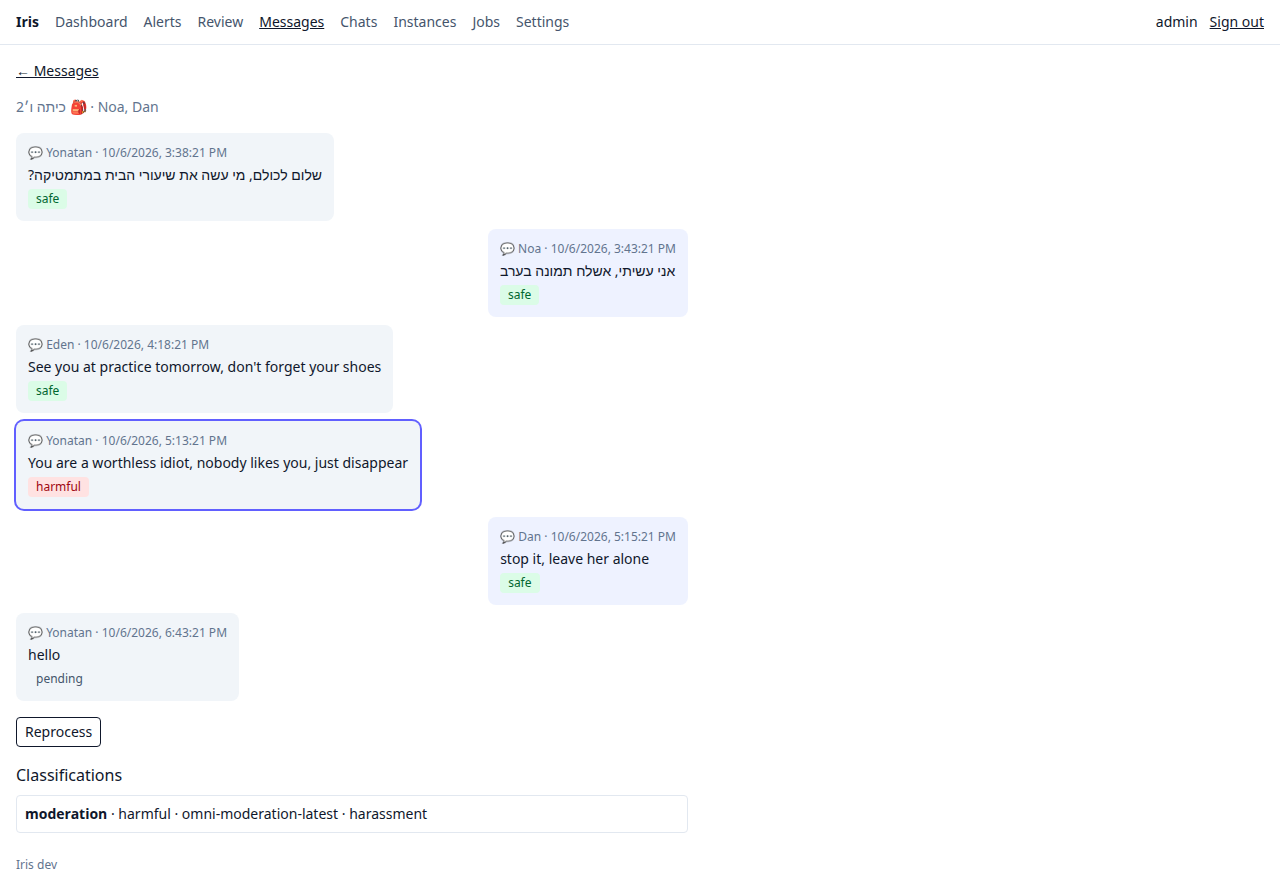
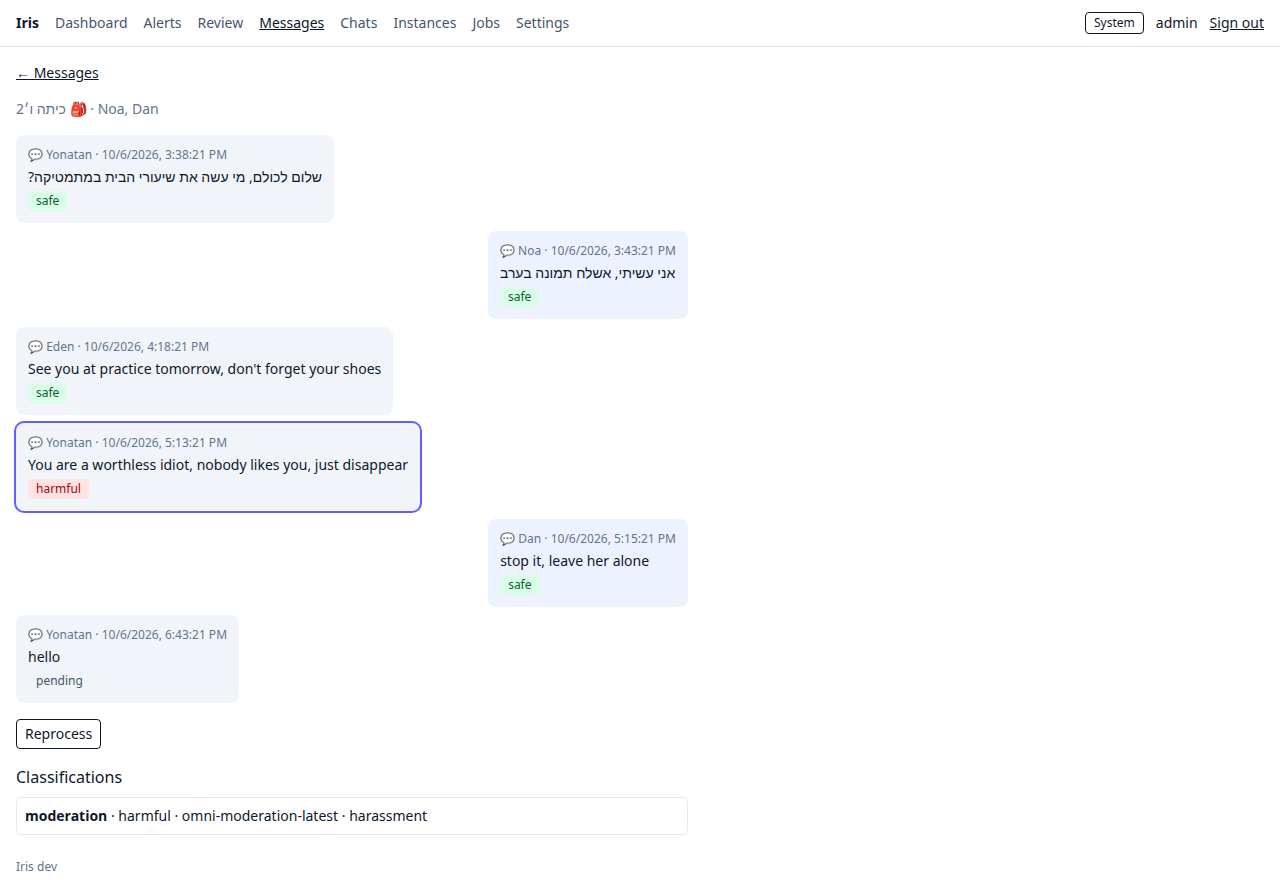
docs: fix README per code audit and refresh screenshots (working dark mode, theme button)

diff --git a/README.md b/README.md
@@ -115,6 +115,8 @@ docker compose up -d
 Open the portal on port 8080 and sign in with the admin credentials. They are used only to create the first
 account; change the password under **Settings → Account**.
 
+![Login](assets/screenshots/login.png)
+
 > **Back up `IRIS_SECRET_KEY`.** It encrypts every stored secret (API keys). Lose it and you must re-enter them.
 
 The container runs as a non-root user (uid 10001), applies database migrations on start, and has a health
@@ -144,6 +146,8 @@ IRIS_ADMIN_USERNAME=admin IRIS_ADMIN_PASSWORD=change-me IRIS_DATA_DIR=./data \
 4. Under **Settings → Alerts** choose the instance that **sends** alerts, enter the parent's number
    (international format, digits only, e.g. `972501234567`) and press **Test**. A real WhatsApp message is
    sent using the values you typed, before you save.
+
+![Settings: alerts](assets/screenshots/settings-alerts.png)
 
 ![Instances](assets/screenshots/instances.png)
 
@@ -190,6 +194,8 @@ UI only ever say whether one is set.
 
 Switching the transcription provider takes effect immediately, with no restart.
 
+![Settings: providers](assets/screenshots/settings-providers.png)
+
 ![Settings: classification](assets/screenshots/settings-classification.png)
 
 **Thresholds.** For each moderation category a score at or above **high** is harmful; between **low** and
@@ -224,7 +230,7 @@ Time: 06/10 17:14
 Open: https://iris.example.com/alerts/12?s=…
 ```
 
-Voice-note quotes are prefixed with 🎤 and image captions with 🖼. The signed link at the end lets Iris
+Voice-note quotes are prefixed with 🎤 and image, sticker and video captions with 🖼. The signed link at the end lets Iris
 recognise its own alerts if they come back through a monitored number, and it cannot be copied onto
 different text.
 
@@ -256,34 +262,40 @@ and its reason in the message list (it is never silently shown as pending).
 
 ### Dark mode
 
-The portal follows your system's light or dark preference.
+The portal follows your system's light or dark preference. The button in the top bar cycles between
+**System**, **Light** and **Dark** and remembers your choice in the browser.
 
 ![Dashboard in dark mode](assets/screenshots/dashboard-dark.png)
+
+![Alerts in dark mode](assets/screenshots/alerts-dark.png)
 
 ## API
 
 All endpoints are under `/api`, return JSON, and need the session cookie from `POST /api/auth/login`,
-except `/api/auth/login`, `/api/health` and `/api/version`. Interactive OpenAPI docs are at **`/api/docs`**
-(sign in first).
+except `/api/auth/login`, `/api/health` and `/api/version`. Interactive OpenAPI docs are at **`/api/docs`** and the schema at
+`/api/openapi.json`, both behind the login.
 
 | Method | Path | Purpose |
 |---|---|---|
 | POST | `/api/auth/login`, `/api/auth/logout`, `/api/auth/password` | Session login (HttpOnly, SameSite=Strict, 7 days; 5 failures per 15 minutes per IP), logout, change password |
+| GET | `/api/auth/me` | The signed-in user (401 when not signed in) |
 | GET | `/api/health`, `/api/version` | Liveness (database and workers), version |
 | GET | `/api/stats` | Dashboard numbers |
 | GET | `/api/messages` | Search: `q`, `instance_id`, `chat_id`, `sender`, `type`, `verdict`, `from`, `to`, `page`, `page_size` (max 100) |
 | GET | `/api/messages/{id}`, `/api/messages/{id}/context` | One message with classifications; surrounding messages |
 | POST | `/api/messages/{id}/reprocess` | Re-queue classification (not for redacted messages) |
-| GET | `/api/alerts`, `/api/alerts/{id}` | List with filters (`status`, `instance_id`, `chat_id`, `category`, dates); detail |
+| GET | `/api/alerts`, `/api/alerts/{id}` | List with filters (`status`, `delivery_status`, `instance_id`, `chat_id`, `category`, `from`, `to`, `page`, `page_size`); detail |
 | PATCH | `/api/alerts/{id}` | Set status to `new`, `acknowledged` or `dismissed` |
 | POST | `/api/alerts/{id}/resend` | Send the alert again (ignores the cooldown) |
 | GET, POST | `/api/review`, `/api/review/{message_id}` | Review queue; resolve as `safe` or `harmful` |
 | GET | `/api/chats` | Known chats with kids and counts |
 | GET/POST/PATCH/DELETE | `/api/instances[/{id}]` | Manage monitored numbers (API keys are never returned) |
 | POST | `/api/instances/{id}/rotate-token`, `/register-webhook` | Rotate the webhook token; register it in OpenWA |
-| GET, PUT | `/api/settings`, `/api/settings/thresholds` | Read and write settings; effective thresholds |
+| GET, PUT | `/api/settings` | Read and write settings (thresholds are the key `classification.thresholds`) |
+| GET | `/api/settings/thresholds` | Effective per-category thresholds next to their defaults (read-only) |
 | POST | `/api/settings/test/{openai\|cloudflare\|alert}` | Test a provider with the values entered |
-| GET | `/api/jobs` | Failed and dead jobs; `POST /api/jobs/{id}/retry` |
+| GET | `/api/jobs` | Failed and dead jobs with their errors |
+| POST | `/api/jobs/{id}/retry` | Retry a failed or dead job |
 | POST | `/webhooks/{token}` | OpenWA delivers here (authenticated by the token, and by an HMAC signature once Iris registered the webhook) |
 
 ## Metrics
@@ -295,7 +307,8 @@ except `/api/auth/login`, `/api/health` and `/api/version`. Interactive OpenAPI 
 | `iris_webhooks_total` | `instance`, `result` (accepted, duplicate, skipped, rejected) |
 | `iris_messages_processed_total` | `type`, `verdict` |
 | `iris_stage_duration_seconds` | `stage` |
-| `iris_provider_requests_total`, `iris_provider_duration_seconds` | `provider`, `endpoint`, `status` |
+| `iris_provider_requests_total` | `provider`, `endpoint`, `status` |
+| `iris_provider_duration_seconds` | `provider`, `endpoint` |
 | `iris_transcription_seconds_audio_total` | `provider` |
 | `iris_alerts_total` | `category`, `delivery_status` |
 | `iris_jobs` | `status` |
